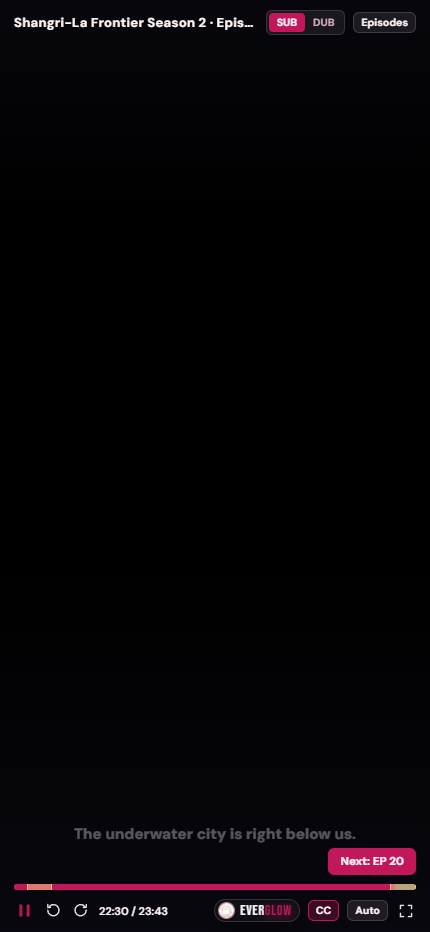
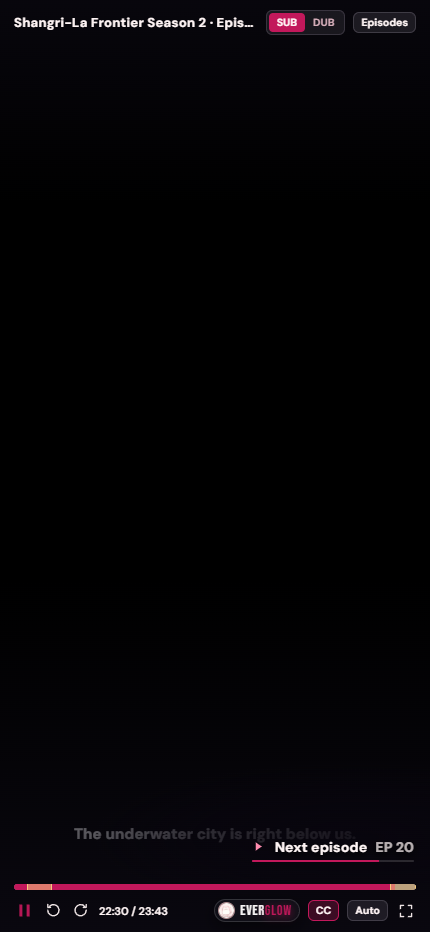
docs(pr-proof): bare action shots

Changed region(s): [[0.3628, 0.8712, 0.9674, 0.9646]]

diff --git a/docs/pr-proof/pr-571/README.md b/docs/pr-proof/pr-571/README.md
@@ -19,10 +19,14 @@ outside the player.
   OP/ED segments, play, -10s, +10s, volume, time, the Everglow badge, CC,
   quality, fullscreen. The HUD fades out after 2.8 s of playback and
   returns on mouse or touch.
-- **One button per moment.** The Skip pill belongs to the opening only.
-  The Next episode button belongs to the ending, or to the last 90 seconds
-  when nobody marked one. They never show together, and Next stays hidden
-  when nothing follows (a film, or the last episode of the last season).
+- **One action per moment.** Skip belongs to the opening only. Next belongs
+  to the ending, or to the last 90 seconds when nobody marked one. They never
+  show together, and Next stays hidden when nothing follows (a film, or the
+  last episode of the last season).
+- **The action has no box.** It is a word with an icon, a time, and an
+  underline that drains as the stretch plays, sitting on a soft scrim so it
+  stays readable over a bright frame. The old pair were two rounded chips
+  told apart only by fill and outline.
 - **Skip controls moved inside the player.** The watch page no longer
   draws a Skip Opening / Skip Ending row or a "What happened" link under
   the video. The episode list already carries each synopsis, so the link
@@ -45,9 +49,9 @@ Chrome over http so the app's own `postMessage` path runs, with a stubbed
 - `player-loading-wave-phone.png` — the `EVERGLOW` wave while the stream
   boots.
 - `player-opening-skip-phone.png` — 430 px at 1:00, inside the opening:
-  `Skip OP (02:15)` is offered and no Next button exists.
+  `Skip opening 01:15` with its underline 83% full, and no Next action.
 - `player-ending-next-phone.png` — 430 px at 22:30, inside the ending:
-  `Next: EP 20` is offered and the Skip pill is gone.
+  `Next episode EP 20` with its underline draining, and Skip gone.
 - `player-hud-tablet.png` — 1024 px at 1:00: the same opening state with
   the volume button back.
 
